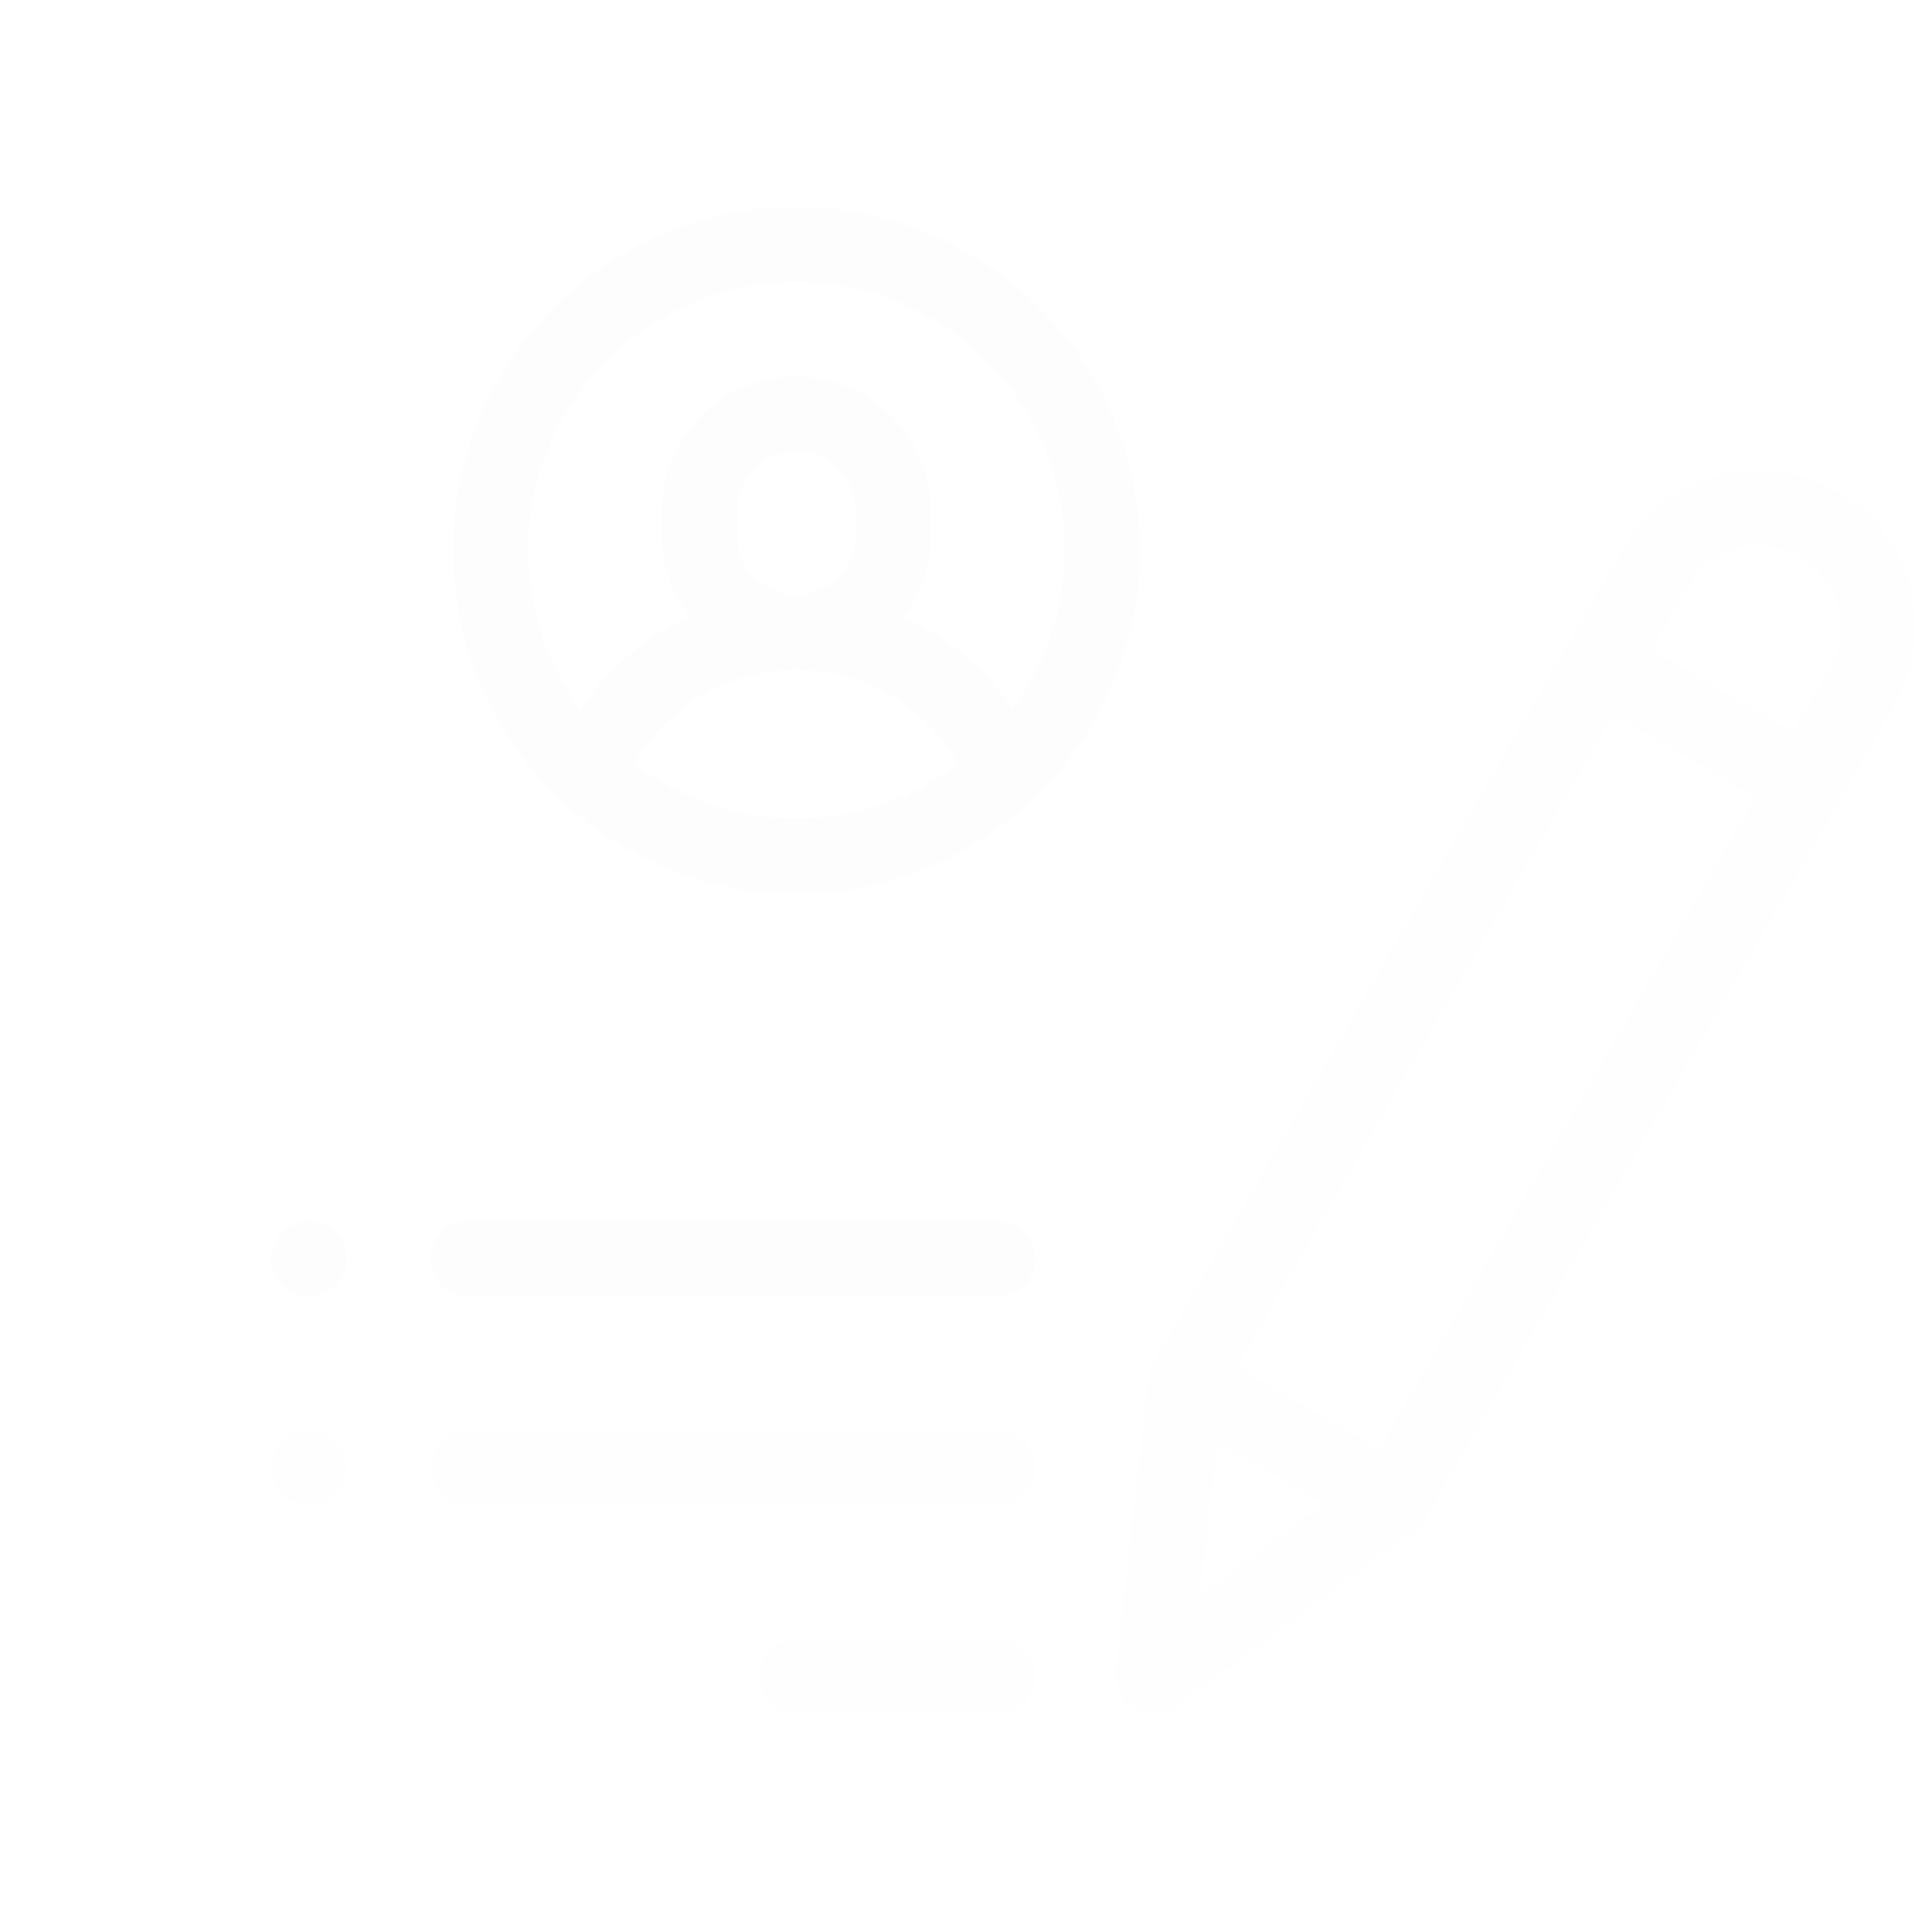
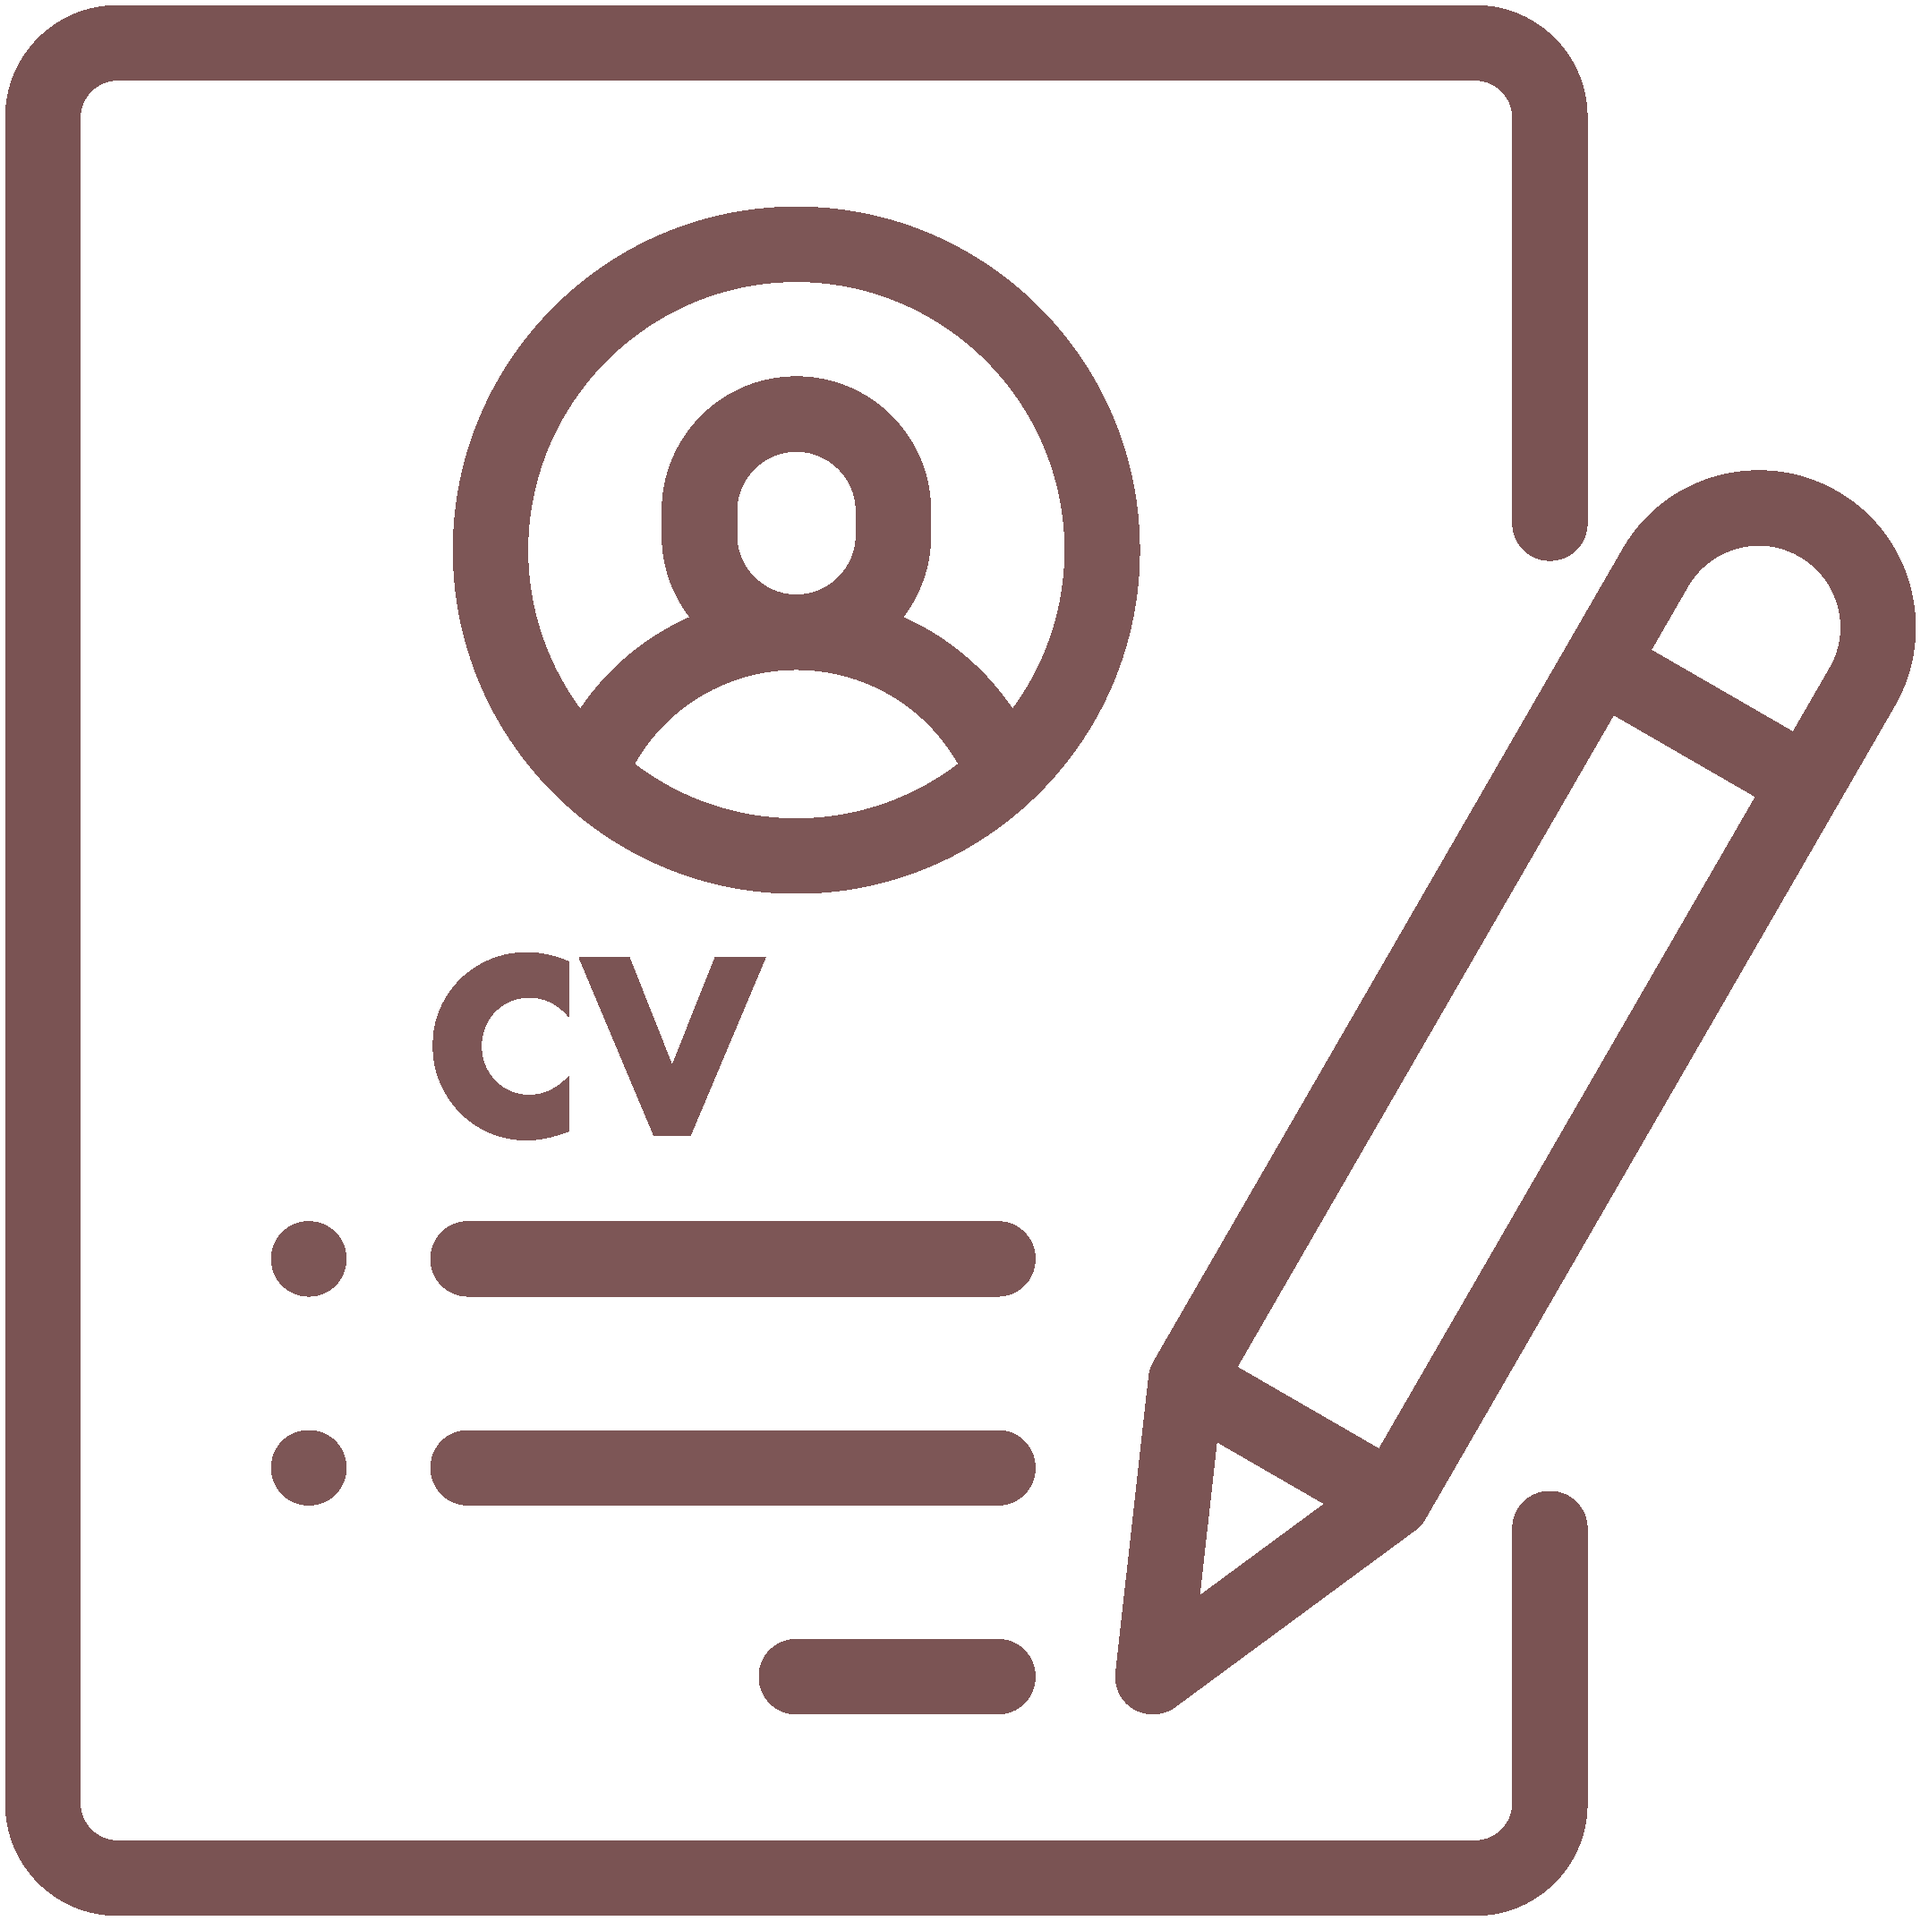
version 510

diff --git a/index.html b/index.html
@@ -10,7 +10,9 @@
     <meta name="description" content="">
 
     <!--Husk unik title til alle sider-->
-    <title>MJ</title>
+    <title>Portfolio</title>
+    <link rel="shortcut icon" type="image/png" href="img/title.png">
+
     <link rel="stylesheet" href="style.css">
     <link href="https://fonts.googleapis.com/css2?family=Raleway:wght@100&display=swap" rel='stylesheet' type='style/css'>
 
@@ -61,7 +63,7 @@
           intuitive as possible.<br> <br>
           
           After finishing this app I got a deeper understanding of, how you can create value for the user with the help of pertinent functions and cool features.
-We made use of a platform called Firebase and with the help from a API, we where able to drag content from Firebase into our web app. 
+We made use of a platform called Firebase and with the help from an API, we were able to drag content from Firebase into our web app. 
          </div>
        
               <img class="ikon" src="img/htmlikon.png">  
@@ -77,9 +79,9 @@ We made use of a platform called Firebase and with the help from a API, we where
         <div class="title">Ecooking</div>
         <div class="text">Ecooking is a skincare company, that creates natural and organic products. I developed this website for Ecooking's users, so that they could get information and guidance about the products and what they are made of. <br> 
           <br>
-          My main focus area with this website, was to create beautiful content which matched Ecooking's visual identity. This is expressed in the many illustrationens I made for the website.
+          My main focus area with this website, was to create beautiful content which matched Ecooking's visual identity. This is expressed in the many illustrations I made for the website.
  
-          Because Ecooking at that time was a very new company on the marked, I also thoose to recreat their logo.  
+          Because Ecooking at that time was a very new company on the marked, I also those to recreate their logo.  
           The idea with my new logo, was to illustrate the story behind the company. Ecooking’s CEO started by testing ingredients home in her kitchen, which lead to her success. Therefore, I made a logo in Illustrator, which represents a pot.
        </div> 
 
@@ -111,12 +113,12 @@ We made use of a platform called Firebase and with the help from a API, we where
      
       <div class="body">
         <div class="title">U-days & SoMe</div>
-        <div class="text">In this project we develped a podwalk app for the future students. The purpose with this app is to help the user find a potential education. The app will give the user information about each education on u-days, which hopefully will lead the user to a decision on what they want to study. <br> <br>     
+        <div class="text">In this project we developed a podwalk app for the future students. The purpose with this app is to help the user find a potential education. The app will give the user information about each education on u-days, which hopefully will lead the user to a decision on what they want to study. <br> <br>     
           
          I designed a new logo in illustrator for the app, where I used the blue and orange, which already was a part of u-days visual identity. 
          That way I create something recognizable to the user
           
-          Social Media was also a main target, to market u-days. I made a Instagram competition, which should create attention to u-days and make more people participate.  </div>
+          Social Media was also a main target, to market u-days. I made an Instagram competition, which should create attention to u-days and make more people participate.  </div>
        
           <img class="ikon" src="img/htmlikon.png">  
           <img class="ikon" src="img/cssikon.png">  
@@ -140,7 +142,7 @@ We made use of a platform called Firebase and with the help from a API, we where
       <li>Sometimes I give old furnitures my own personal touch</li><br>
       <li>I am Content Assistant at Sinful </li><br>
       <li>Sewing is meditation to me</li><br>
-     <div class="mitcv"><p><i> Wan't to know more?</i></p><a href="https://drive.google.com/file/d/1VzAPDPuZjWIo7G9Gc7jmrdskh2twGptE/view?usp=sharing"><img src="img/cv.png" id="cv" alt="cv"></a> 
+     <div class="mitcv"><p><i> Want to know more?</i></p><a href="https://drive.google.com/file/d/1VzAPDPuZjWIo7G9Gc7jmrdskh2twGptE/view?usp=sharing"><img src="img/cv.png" id="cv" alt="cv"></a> 
     </div>
     </ul>
   </div>
@@ -241,12 +243,12 @@ We made use of a platform called Firebase and with the help from a API, we where
 <div class="contaktikoner">
   <a href="mailto:johannsen12@hotmail.com"><img src="img/mailicon.png" id="mail" alt="e-mail"></a>
   <a href="tel:+4521967153"><img src="img/phone.png" id="phone" alt="telefon"></a>
-  <a href="https://www.linkedin.com/in/maja-johannsen-aa2b90191/"></a><img src="img/linkedin.png" id="linkedin" alt="linkedin"></a>
+
+  <a href="https://www.linkedin.com/in/maja-johannsen-aa2b90191/"><img src="img/linkedin.png" id="linkedin" alt="linkedin"LinkedIn></a>
   <a href="https://www.facebook.com/maja.johannsen/"><img src="img/facebook.png" id="facebook" alt="facebook"></a>
   <a href="https://www.instagram.com/maja_johannsen/"><img src="img/insta.png" id="insta" alt="instagram"></a>
 </div>
-</div>
-</div></section>
+</section>
 </footer>
   <script src="javascript.js"></script>
   </body>

diff --git a/style.css b/style.css
@@ -2,13 +2,13 @@
     margin: 0;
     padding: 0;
     box-sizing: border-box;
-
   scroll-behavior: smooth;
     }
 
 
     body {
     background-color:#fff;
+    
     }
 
     h1 {
@@ -200,7 +200,7 @@ ul.c {
   list-style-type: circle;
   font-size: 2.5vw;
 color: #fff;
-padding-left: 8%;
+padding-left: 6%;
   flex-direction: column;
   font-weight: lighter;
   font-family: 'Raleway', sans-serif;
@@ -233,6 +233,9 @@ transition: transform .2s;
   transform: scale(1.2);
 }
 
+.mitcv p {
+  color:#7A5252;
+}
 
 /* Slideshow container */
 
@@ -312,9 +315,10 @@ margin-bottom: 4vw;
     width: 100%;
   }
   .flex-container > div {
+    width: 100%;
     background-color: #C6A9A9;
     padding: 5%;
-    margin: 5%;
+    margin: 2%;
     z-index: -100;
     
   }
@@ -322,6 +326,7 @@ margin-bottom: 4vw;
     list-style-type: circle;
     font-size: 2.5vw;
  color: #fff;
+ line-height: 4vw;
     flex-direction: column;
     font-family: 'Raleway', sans-serif;
   }
@@ -391,6 +396,9 @@ position: absolute;
  
 
  /* contact */
+.contaktikoner{
+
+}
 .overskrift {
   color: #fff;
   padding-bottom: 8%;
@@ -398,52 +406,43 @@ position: absolute;
 
  #contact {
    background-color: #C6A9A9;
-   margin: auto;
    padding-bottom: 8%;
  }
 
 footer {
-position: relative;
-align-items: center;
-
-}
-
-.contaktikoner {
   width: 100%;
-
-  
+  padding: 8px 0px;
+position: relative;
 }
+
 
  #mail{
    position: absolute;
    width: 8%;
 
-
-
  }
  #phone{
   position: absolute;
   width: 5%;
-  padding-bottom: 5%;
-
-
  }
   
  #linkedin {
   position: absolute;
-  width: 6%;
+  width:5.5%;
+  margin-left: 15%;
 
 
  }
  #facebook {
   position: absolute;
-  width: 7%;
- margin: auto;
+  width: 6%;
+ margin-left: 10%;
 
  }
  #insta {
   position: absolute;
   width: 6%;
+  margin-left: 5%;
 
  }
 

diff --git a/javascript.js b/javascript.js
@@ -5,7 +5,7 @@
 const typedTextSpan = document.querySelector(".typed-text");
 const cursorSpan = document.querySelector(".cursor");
 
-const textArray = ["Graphic Design", "Frontend Developing", "Content Creation", "Social Media" ];
+const textArray = ["Graphic Design", "UX/UI", "Frontend Developing", "Content Creation", "Social Media" ];
 const typingDelay = 200;
 const erasingDelay = 100;
 const newTextDelay = 2000; // Delay between current and next text
